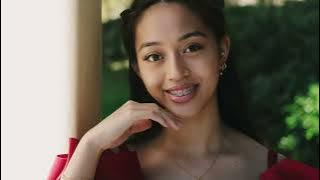
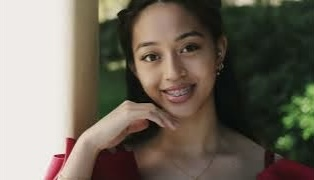
adjust img

diff --git a/index.html b/index.html
@@ -355,8 +355,7 @@
                     <span class="card-title">BADETH turns 50th</span>
                     <div class="card-img-wrapper video-player-box"
                         data-video-url="https://www.youtube.com/watch?v=0thOR0iPb5w">
-                        <img src="Miniaturas-Video/Miniaturas Youtube - 7.JPG" alt="Badeth" loading="lazy"
-                            decoding="async">
+                        <img src="Miniaturas-Video/badeth.jpg" alt="Badeth" loading="lazy" decoding="async">
                         <div class="video-play-btn"><i class="fa-solid fa-play"></i></div>
                     </div>
                     <span class="card-category">50º Cumpleaños</span>
@@ -377,8 +376,7 @@
                     <span class="card-title">Austin Averion</span>
                     <div class="card-img-wrapper video-player-box"
                         data-video-url="https://www.youtube.com/watch?v=Oy-18gy_0Yo">
-                        <img src="Miniaturas-Video/Miniaturas Youtube - 9.JPG" alt="Austin Averion" loading="lazy"
-                            decoding="async">
+                        <img src="Miniaturas-Video/austin.jpg" alt="Austin Averion" loading="lazy" decoding="async">
                         <div class="video-play-btn"><i class="fa-solid fa-play"></i></div>
                     </div>
                     <span class="card-category">Primera Comunión</span>
@@ -391,8 +389,7 @@
                     <span class="card-title">Nica turns 18th</span>
                     <div class="card-img-wrapper video-player-box"
                         data-video-url="https://www.youtube.com/watch?v=cPibvDAGhO0">
-                        <img src="Miniaturas-Video/Miniaturas Youtube - 10.JPG" alt="Nica" loading="lazy"
-                            decoding="async">
+                        <img src="Miniaturas-Video/nica.jpg" alt="Nica" loading="lazy" decoding="async">
                         <div class="video-play-btn"><i class="fa-solid fa-play"></i></div>
                     </div>
                     <span class="card-category">18th Birthday</span>
